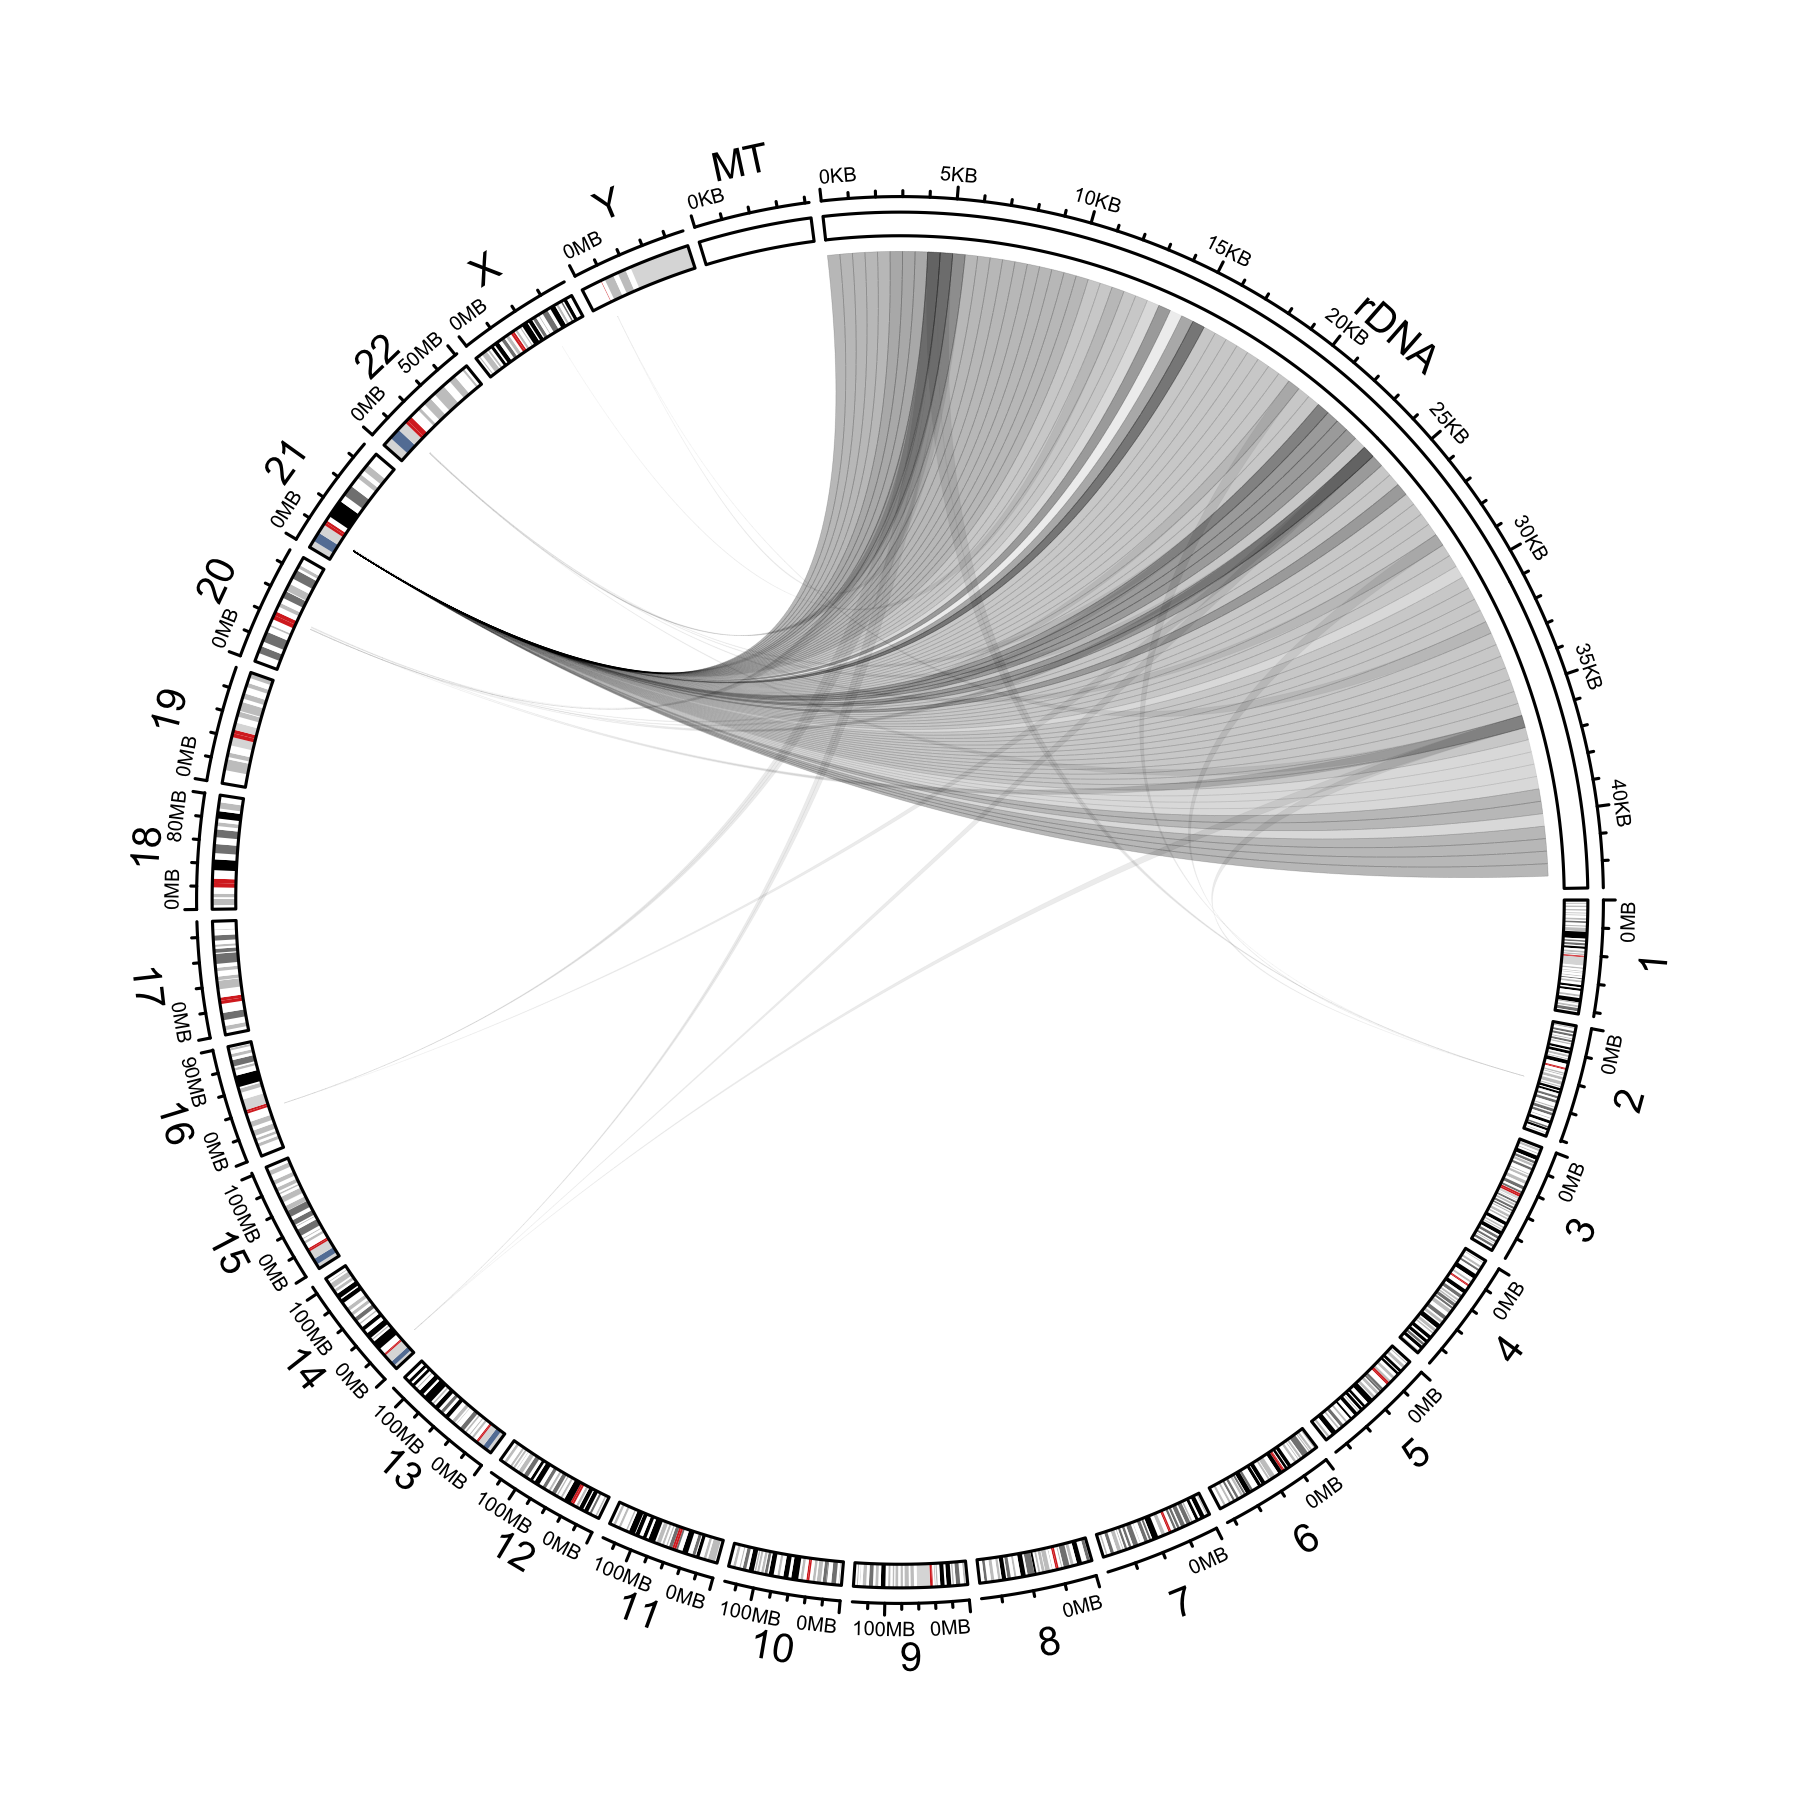
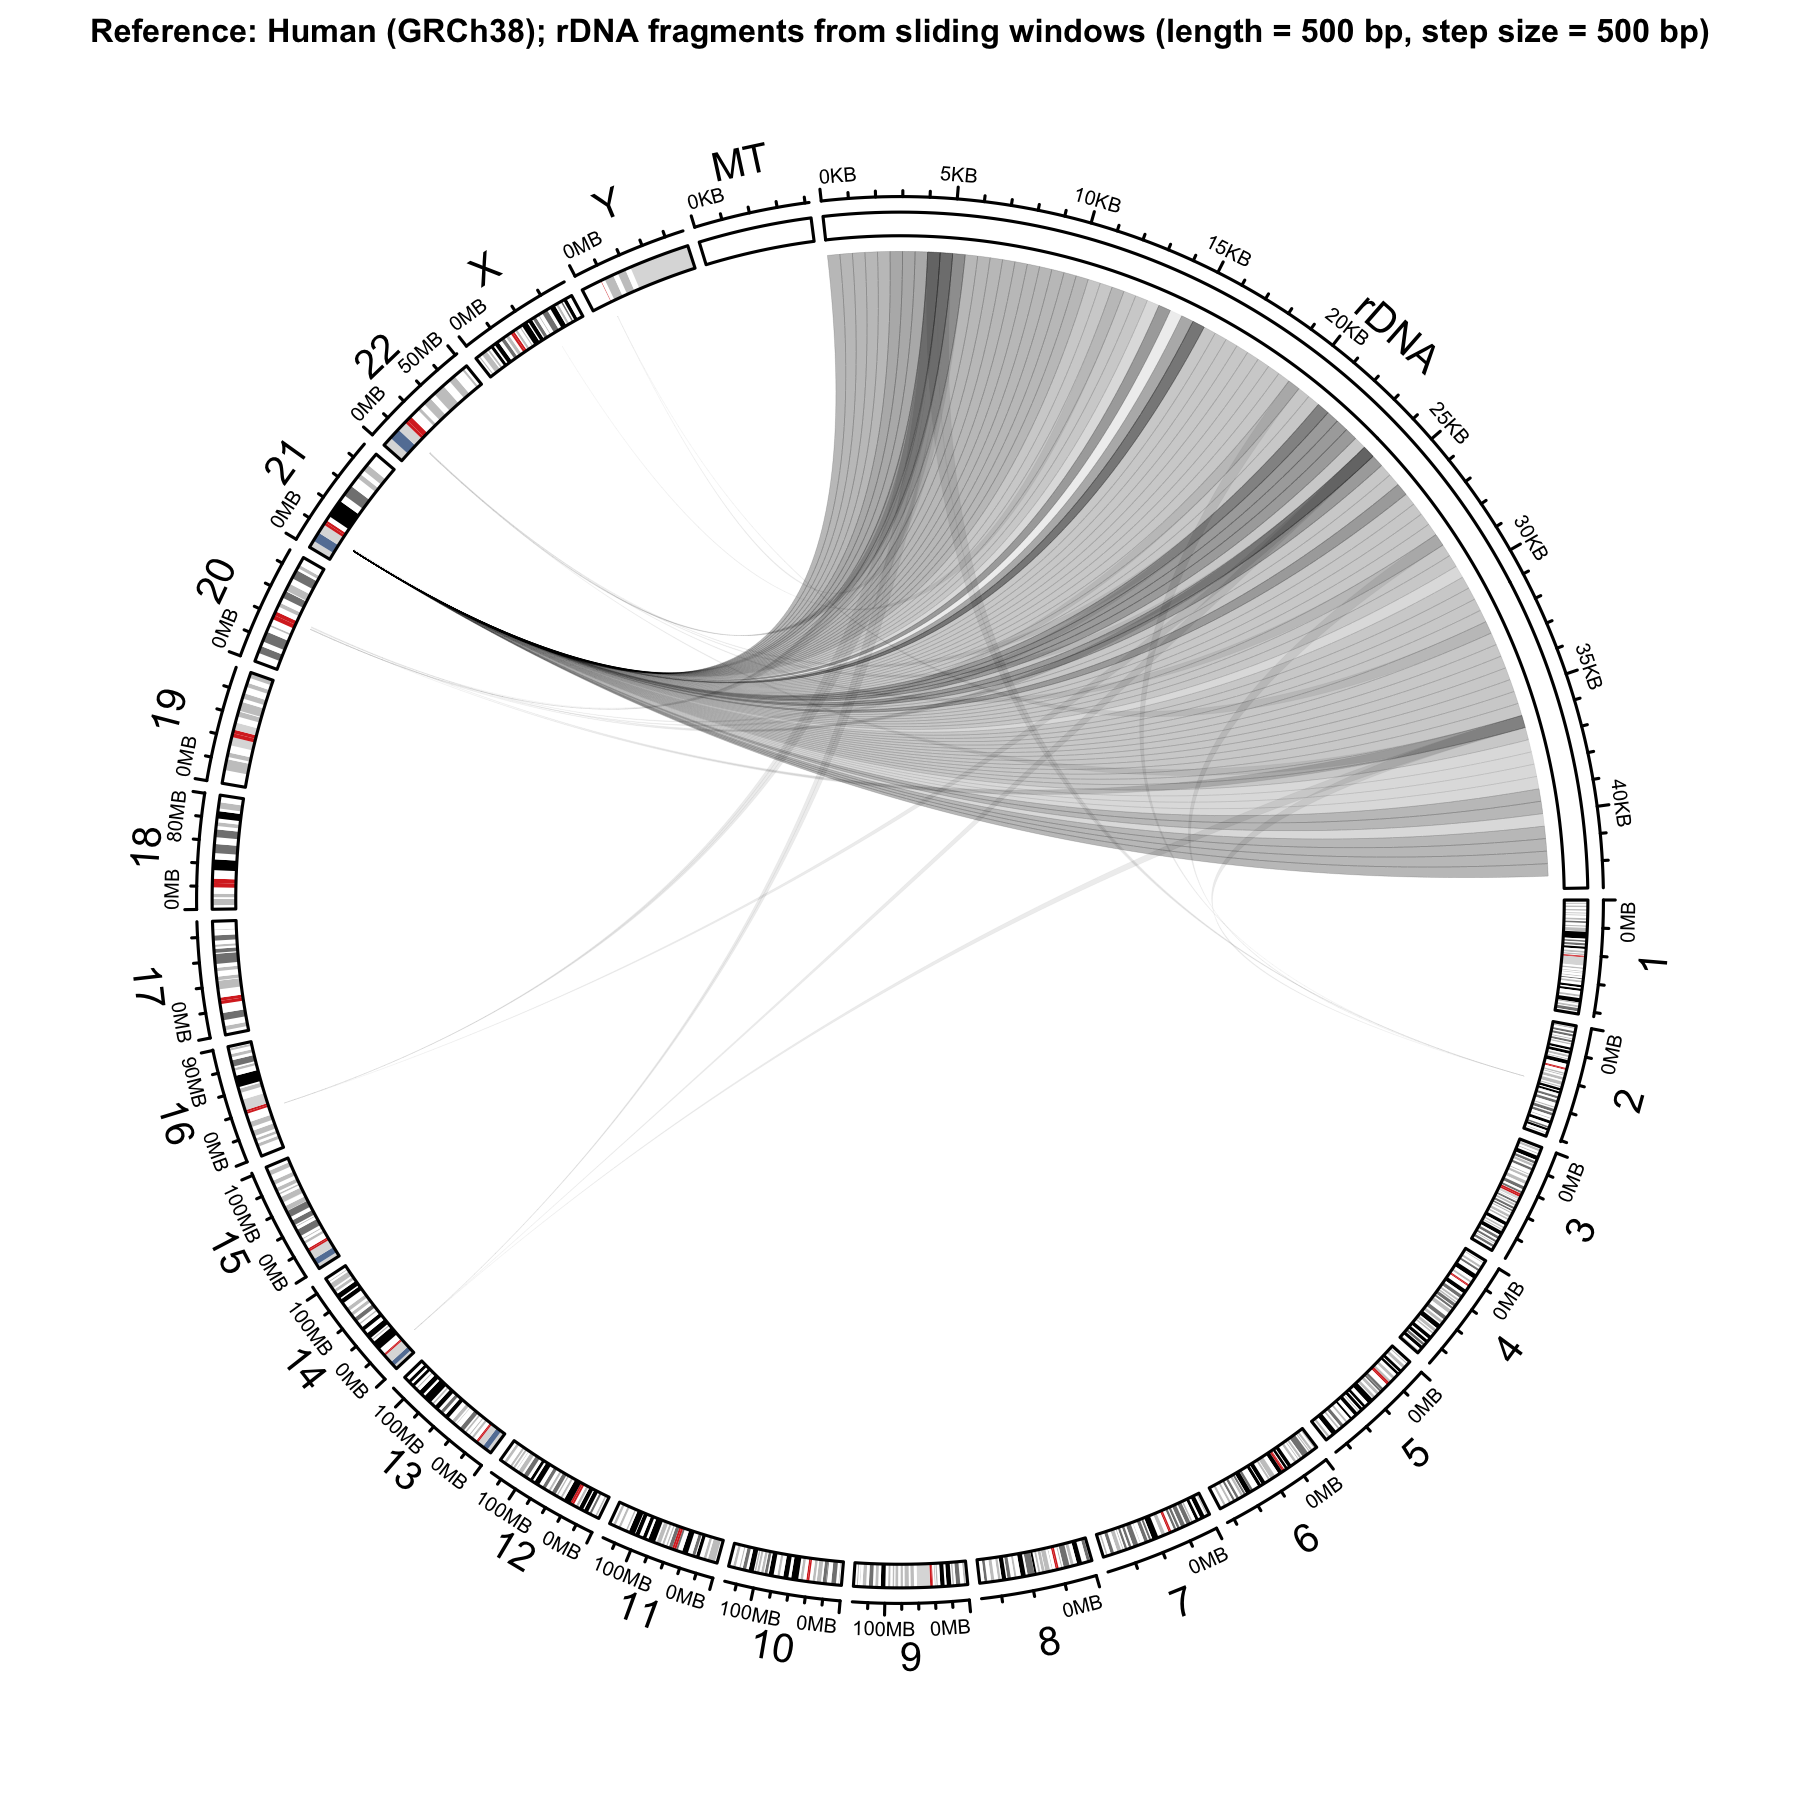
Added title to circos plots; expanded README.md

Changed region(s): [[0.0311, 0.0, 0.9644, 0.0311]]

diff --git a/README.md b/README.md
@@ -53,7 +53,7 @@ cd frag_align_rDNA
 # Execute workflow
 ./run_workflow.sh
 # Or explicitly:
-# snakemake --use-conda
+# snakemake --use-conda --cores
 ```
 
 External dependencies include `bowtie2`, `samtools`, `deeptools` and `R` (along
@@ -62,14 +62,26 @@ with the additional R/Bioconductor libraries `tidyverse`, `Biostrings`,
 `conda` environments. There is no need to manually install `bowtie2` etc.,
 although it doesn't affect the workflow if these tools are already installed.
 
+### How to make changes to the workflow
+
+To change (parts of) the workflow, a minimal familiarity with `snakemake` is
+recommended. For example, to fragment the rDNA with overlapping (instead of
+non-overlapping) windows the `input` targets of `rule all` need to be changed,
+because the window and step size are inferred from the output file names.
+Details about specific rules are given in the corresponding `snakemake` rules
+files in folder `workflow/rules`.
+
+More extensive modifications may require new rules and/or changes to the
+existing rules. 
+
 
 ## Details & comments
 
 ### Performance
 
-Running `bowtie2` with `-all` to report *all* alignments leads to the alignment
-taking a *very* long time. Be aware, when changing parameters of the rDNA
-fragment process and increasing the number of rDNA fragments.
+Running `bowtie2` with `-all` to report *all* alignments takes a *very* long
+time. Be aware, when changing parameters of the rDNA fragment process and
+increasing the number of rDNA fragments.
 
 ### Location of rDNA repeats across the genome
 
@@ -111,6 +123,8 @@ Fragment length = 100 bp, non-overlapping | Fragment length = 500 bp, non-overla
 :---------:|:----------:|:-----------:
 ![alt_text](05_circos_plots/mouse/GRCm38/circos_rDNA_frags_len100_step100.png) | ![alt_text](05_circos_plots/mouse/GRCm38/circos_rDNA_frags_len500_step500.png) | ![alt_text](05_circos_plots/mouse/GRCm38/circos_rDNA_frags_len1000_step1000.png)
 
+
+Figures are included as both PDFs and PNGs in folders `05_circos_plots/mouse/GRCm38` and `05_circos_plots/mouse/GRCm38`.
 
 
 ### Bugs
